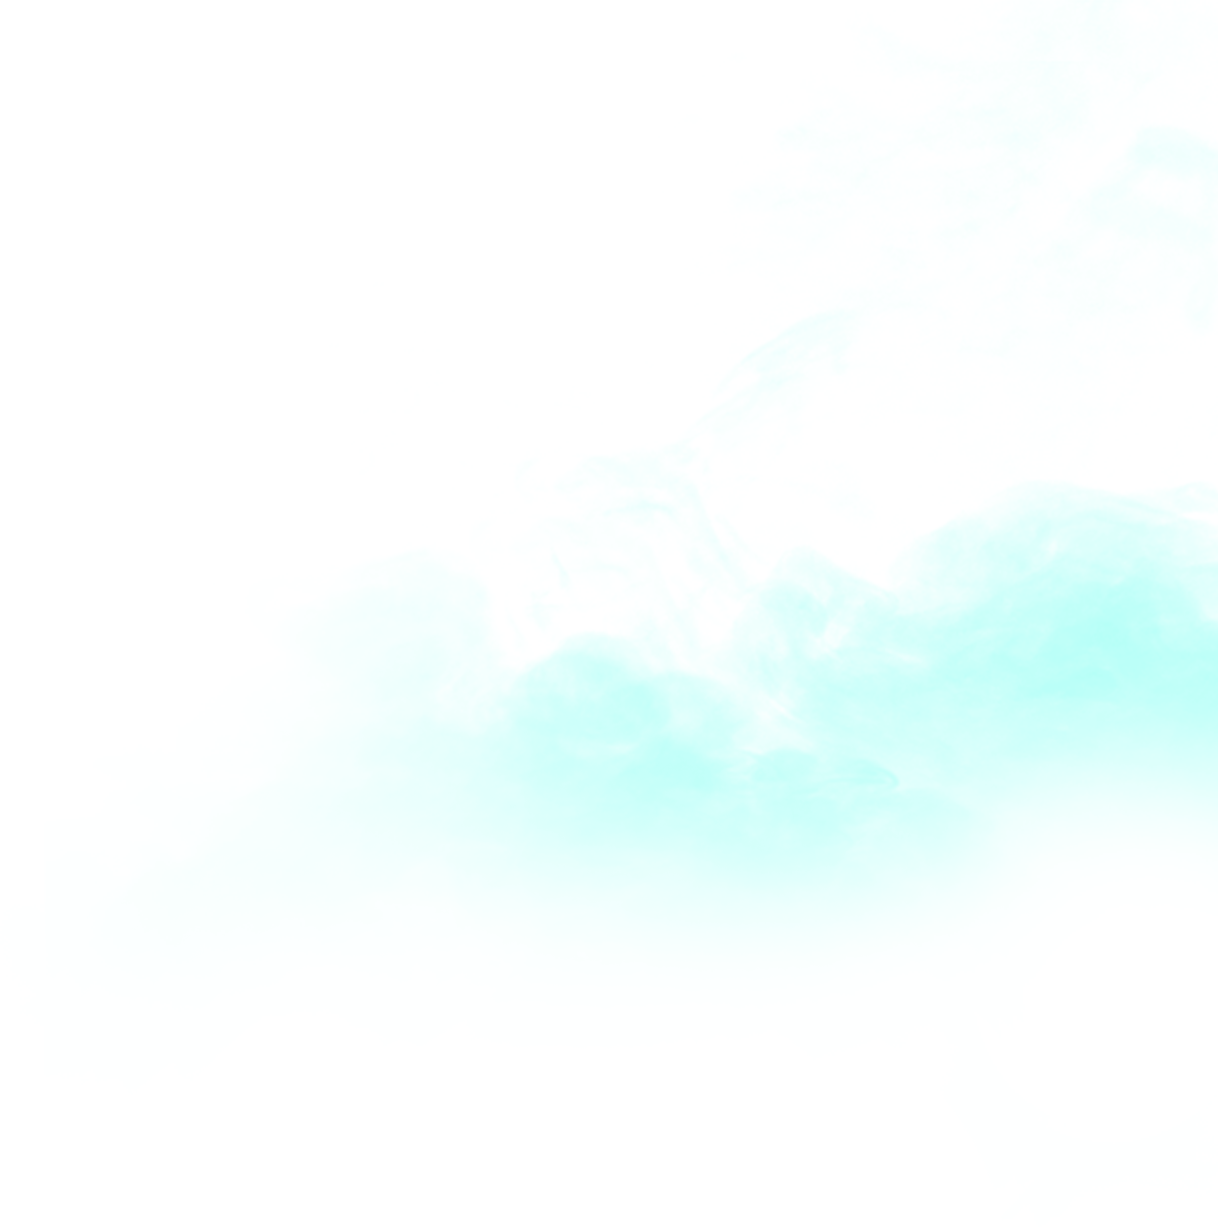
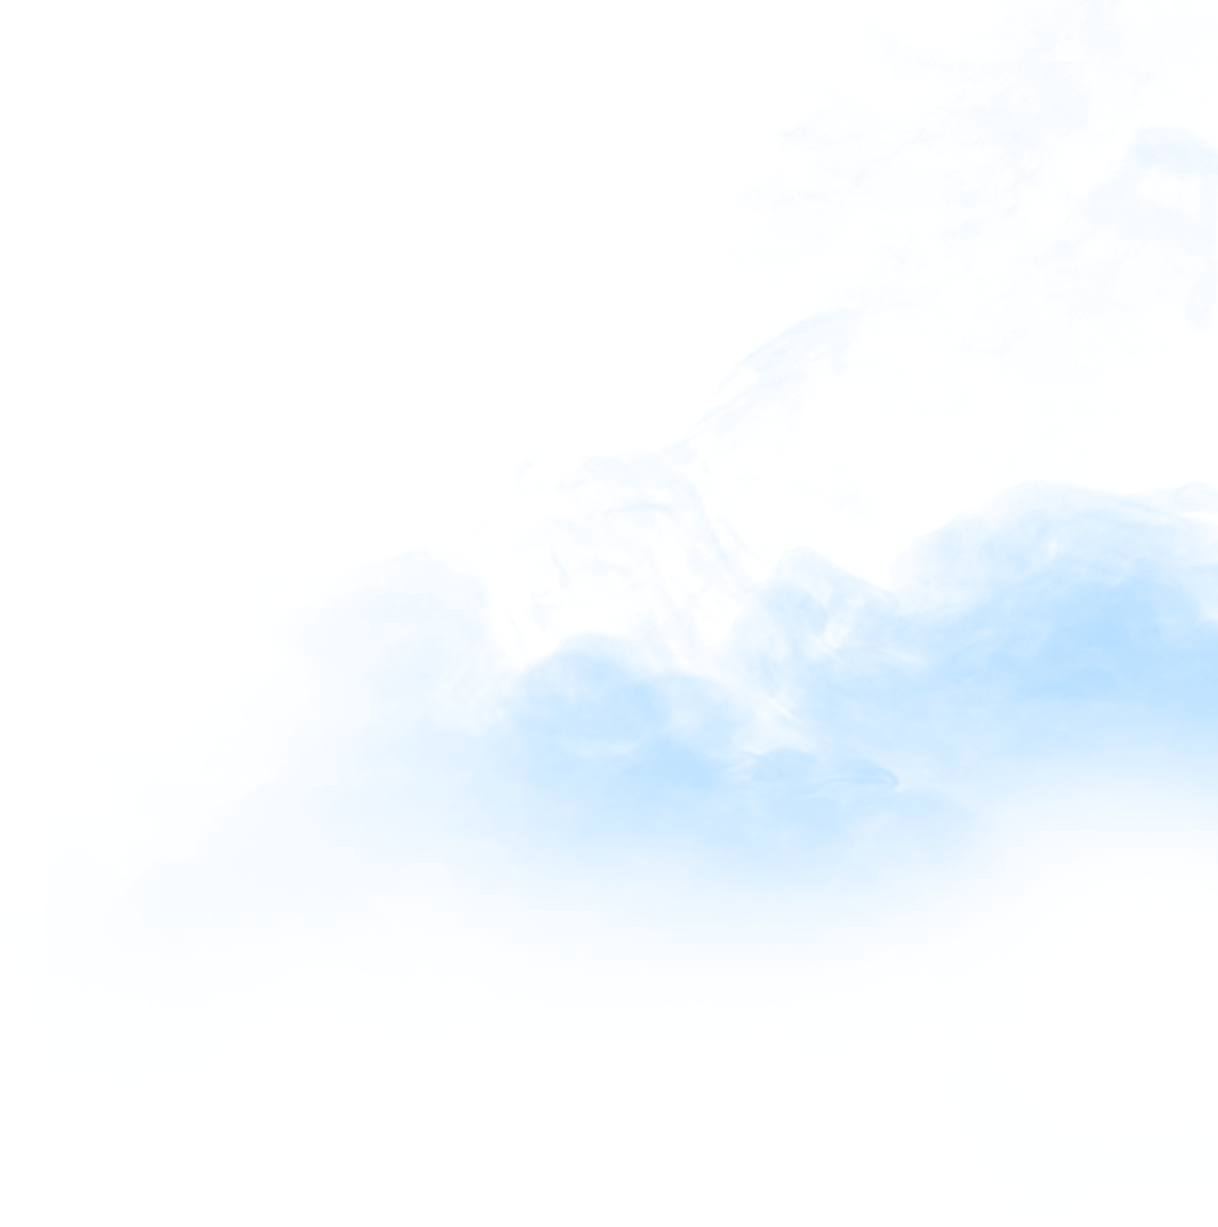
upd

Changed region(s): [[0.7488, 0.4645, 1.0, 0.5884], [0.4992, 0.5575, 0.5928, 0.6504], [0.6864, 0.6194, 0.7176, 0.6504]]

diff --git a/src/components/layout/Logo.tsx b/src/components/layout/Logo.tsx
@@ -1,0 +1,149 @@
+import React, { FC } from "react";
+
+interface ILogo {
+  carColor: string;
+  textColor: string;
+}
+
+const Logo: FC<ILogo> = ({ carColor, textColor }) => {
+  return (
+    <svg
+      xmlns="http://www.w3.org/2000/svg"
+      id="body_1"
+      width="180px"
+      height="50px"
+    >
+      <g transform="matrix(0.2395288 0 0 0.24056606 0 0)">
+        <g>
+          <path
+            d="M301.5 14.5C 311.833 14.5 322.167 14.5 332.5 14.5C 344.961 16.1471 357.628 16.8138 370.5 16.5C 371.833 16.5 373.167 16.5 374.5 16.5C 378.881 18.2105 383.547 18.8772 388.5 18.5C 389.167 18.5 389.833 18.5 390.5 18.5C 400.227 22.3482 410.227 25.6815 420.5 28.5C 439.697 36.6136 456.364 48.4469 470.5 64C 479.349 64.6963 488.182 64.5296 497 63.5C 499.3 63.4944 501.466 63.9944 503.5 65C 505.736 68.0353 507.402 71.3686 508.5 75C 507.529 76.4813 506.196 77.3146 504.5 77.5C 505.63 74.8633 505.63 72.1967 504.5 69.5C 501.833 69.5 499.167 69.5 496.5 69.5C 497.041 72.6516 496.041 75.1516 493.5 77C 477.17 77.4999 460.837 77.6666 444.5 77.5C 444.5 76.5 444.5 75.5 444.5 74.5C 455.881 74.8555 467.215 74.3555 478.5 73C 476.574 72.5776 475.574 71.4109 475.5 69.5C 472.167 69.5 468.833 69.5 465.5 69.5C 465.5 70.8333 465.5 72.1667 465.5 73.5C 449.109 73.9491 432.775 73.2824 416.5 71.5C 416.624 70.8933 416.957 70.56 417.5 70.5C 423.31 71.4896 429.31 71.8229 435.5 71.5C 445.008 72.8225 454.675 72.8225 464.5 71.5C 464.376 70.8933 464.043 70.56 463.5 70.5C 458.101 59.5993 450.101 51.0993 439.5 45C 423.461 36.4103 406.461 31.077 388.5 29C 387.299 29.9025 386.465 31.0692 386 32.5C 382.37 41.9045 378.87 51.2378 375.5 60.5C 375.925 55.3984 376.925 50.3984 378.5 45.5C 373.453 45.3375 368.453 45.6708 363.5 46.5C 366.081 38.8372 369.081 31.3372 372.5 24C 331.515 20.8429 290.515 20.6762 249.5 23.5C 245.486 23.3345 241.486 23.5012 237.5 24C 236.944 24.3826 236.611 24.8826 236.5 25.5C 235.833 25.5 235.167 25.5 234.5 25.5C 226.307 26.008 218.64 28.3413 211.5 32.5C 210.702 32.0431 210.369 31.3764 210.5 30.5C 216.215 26.4787 222.549 23.812 229.5 22.5C 242.739 21.2365 255.739 19.2365 268.5 16.5C 268.833 16.5 269.167 16.5 269.5 16.5C 280.376 16.7581 291.042 16.0915 301.5 14.5zM475.5 69.5C 480.985 68.3483 486.651 68.1816 492.5 69C 495.341 72.1588 494.674 74.4922 490.5 76C 489.207 76.49 487.873 76.6567 486.5 76.5C 485.833 75.1667 484.833 74.1667 483.5 73.5C 480.833 72.1667 478.167 70.8333 475.5 69.5z"
+            stroke="none"
+            fill={carColor}
+            fill-rule="nonzero"
+          />
+        </g>
+        <g>
+          <path
+            d="M234.5 25.5C 218.89 29.9716 204.557 37.1383 191.5 47C 181.804 54.1758 172.137 61.3425 162.5 68.5C 161.711 68.7828 161.044 69.2828 160.5 70C 163.146 70.4974 165.813 70.6641 168.5 70.5C 157.109 71.5383 145.442 72.5383 133.5 73.5C 140.736 72.0551 148.069 70.5551 155.5 69C 172.492 54.1774 190.826 41.344 210.5 30.5C 210.369 31.3764 210.702 32.0431 211.5 32.5C 218.64 28.3413 226.307 26.008 234.5 25.5z"
+            stroke="none"
+            fill={carColor}
+            fill-rule="nonzero"
+          />
+        </g>
+        <g>
+          <path
+            d="M375.5 60.5C 374.833 63.8333 374.167 67.1667 373.5 70.5C 373.253 72.9752 372.587 72.9752 371.5 70.5C 343.767 68.8592 316.1 69.5259 288.5 72.5C 295.601 70.7453 302.934 69.5786 310.5 69C 323.345 68.0769 336.178 67.2436 349 66.5C 351.057 67.1397 353.223 66.9731 355.5 66C 358.845 59.8039 361.511 53.3039 363.5 46.5C 368.453 45.6708 373.453 45.3375 378.5 45.5C 376.925 50.3984 375.925 55.3984 375.5 60.5z"
+            stroke="none"
+            fill={carColor}
+            fill-rule="nonzero"
+          />
+        </g>
+        <g>
+          <path
+            d="M639.5 65.5C 649.839 65.3335 660.172 65.5002 670.5 66C 672.148 71.8128 671.315 77.3128 668 82.5C 665.293 84.9363 662.127 86.4363 658.5 87C 649.756 87.9095 641.089 87.5762 632.5 86C 629.497 77.5101 631.83 70.6768 639.5 65.5z"
+            stroke="none"
+            fill={textColor}
+            fill-rule="nonzero"
+            fill-opacity="0.92941177"
+          />
+        </g>
+        <g>
+          <path
+            d="M416.5 60.5C 417.777 61.6936 418.444 63.3603 418.5 65.5C 418.493 67.3693 418.16 69.036 417.5 70.5C 416.957 70.56 416.624 70.8933 416.5 71.5C 432.775 73.2824 449.109 73.9491 465.5 73.5C 465.5 72.1667 465.5 70.8333 465.5 69.5C 468.833 69.5 472.167 69.5 475.5 69.5C 475.574 71.4109 476.574 72.5776 478.5 73C 467.215 74.3555 455.881 74.8555 444.5 74.5C 444.5 75.5 444.5 76.5 444.5 77.5C 460.837 77.6666 477.17 77.4999 493.5 77C 496.041 75.1516 497.041 72.6516 496.5 69.5C 499.167 69.5 501.833 69.5 504.5 69.5C 505.63 72.1967 505.63 74.8633 504.5 77.5C 504.47 78.4972 504.97 79.1639 506 79.5C 509.471 80.3711 512.638 81.7045 515.5 83.5C 513.073 83.477 510.74 82.977 508.5 82C 448.501 81.5 388.501 81.3333 328.5 81.5C 333.25 79.9692 338.25 79.3025 343.5 79.5C 347.514 79.6655 351.514 79.4988 355.5 79C 354.833 78.6667 354.167 78.3333 353.5 78C 346.986 77.18 340.653 77.3467 334.5 78.5C 333.833 78.5 333.167 78.5 332.5 78.5C 326.129 78.4882 319.796 78.9882 313.5 80C 311.881 80.2355 310.881 81.0689 310.5 82.5C 299 83.8736 287.667 86.2069 276.5 89.5C 280.185 87.3804 284.185 85.5471 288.5 84C 274.833 83.3333 261.167 83.3333 247.5 84C 243.727 85.3536 240.06 86.8536 236.5 88.5C 234.899 87.9653 234.399 86.9653 235 85.5C 237.185 84.3305 239.351 83.1638 241.5 82C 196.167 81.3333 150.833 81.3333 105.5 82C 104.095 83.2692 102.429 83.7692 100.5 83.5C 100.5 83.1667 100.5 82.8333 100.5 82.5C 101.167 82.5 101.5 82.1667 101.5 81.5C 111.67 76.9574 122.337 74.2907 133.5 73.5C 145.442 72.5383 157.109 71.5383 168.5 70.5C 168.5 70.1667 168.5 69.8333 168.5 69.5C 204.711 65.3587 241.044 63.6921 277.5 64.5C 282.349 65.1665 287.349 65.8332 292.5 66.5C 285.904 68.3785 279.237 70.0452 272.5 71.5C 271.287 71.7472 270.62 72.4138 270.5 73.5C 266.232 75.0896 261.899 76.5896 257.5 78C 258.167 78.1667 258.833 78.3333 259.5 78.5C 269.021 75.7293 278.688 73.7293 288.5 72.5C 316.1 69.5259 343.767 68.8592 371.5 70.5C 372.587 72.9752 373.253 72.9752 373.5 70.5C 376.391 71.4025 379.391 71.7359 382.5 71.5C 382.401 68.7628 382.735 66.0961 383.5 63.5C 385.092 64.6016 385.925 63.935 386 61.5C 392.027 56.9198 398.86 55.4198 406.5 57C 409.758 58.4665 413.092 59.6332 416.5 60.5z"
+            stroke="none"
+            fill={carColor}
+            fill-rule="nonzero"
+          />
+        </g>
+        <g>
+          <path
+            d="M276.5 89.5C 265.933 94.3047 255.099 98.638 244 102.5C 237.336 101.279 230.836 99.4457 224.5 97C 222.167 96.8333 219.833 96.6667 217.5 96.5C 201.846 97.383 186.18 97.7163 170.5 97.5C 150.16 97.6884 129.827 98.1884 109.5 99C 129.842 99.6526 150.175 99.4859 170.5 98.5C 187.188 98.7903 203.855 98.457 220.5 97.5C 224.797 98.2655 228.797 99.5989 232.5 101.5C 182.506 100.768 132.506 100.435 82.5 100.5C 77.5 100.833 72.5 101.167 67.5 101.5C 66.0319 104.154 64.3652 106.487 62.5 108.5C 65.161 98.8396 70.8276 91.5063 79.5 86.5C 83.3746 86.1042 87.2079 85.4375 91 84.5C 91.5 84.8333 92 85.1667 92.5 85.5C 91.3523 87.1487 90.019 88.6487 88.5 90C 89.1079 90.8699 89.9412 91.3699 91 91.5C 93.3495 89.3178 95.5162 86.9845 97.5 84.5C 98.609 84.4431 99.609 84.1098 100.5 83.5C 102.429 83.7692 104.095 83.2692 105.5 82C 150.833 81.3333 196.167 81.3333 241.5 82C 239.351 83.1638 237.185 84.3305 235 85.5C 234.399 86.9653 234.899 87.9653 236.5 88.5C 240.06 86.8536 243.727 85.3536 247.5 84C 261.167 83.3333 274.833 83.3333 288.5 84C 284.185 85.5471 280.185 87.3804 276.5 89.5z"
+            stroke="none"
+            fill={carColor}
+            fill-rule="nonzero"
+          />
+        </g>
+        <g>
+          <path
+            d="M328.5 81.5C 388.501 81.3333 448.501 81.5 508.5 82C 510.74 82.977 513.073 83.477 515.5 83.5C 518.167 84.1667 519.833 85.8333 520.5 88.5C 458.833 89.1667 397.167 89.8333 335.5 90.5C 328.887 91.2804 325.053 94.947 324 101.5C 315.349 109.147 309.516 118.481 306.5 129.5C 306.398 124.908 307.398 120.575 309.5 116.5C 301.187 115.335 292.853 115.168 284.5 116C 284.026 117.729 283.026 118.895 281.5 119.5C 281.372 117.345 281.872 115.345 283 113.5C 294.488 97.4988 309.654 86.8322 328.5 81.5z"
+            stroke="none"
+            fill={carColor}
+            fill-rule="nonzero"
+          />
+        </g>
+        <g>
+          <path
+            d="M345.5 97.5C 371.835 97.3334 398.169 97.5 424.5 98C 426.187 99.913 426.687 102.08 426 104.5C 422.333 114.833 418.667 125.167 415 135.5C 412.889 139.944 409.389 142.444 404.5 143C 390.425 142.859 376.592 143.693 363 145.5C 359.963 153.737 356.796 161.904 353.5 170C 356.76 170.784 359.927 170.617 363 169.5C 365.275 162.674 367.942 156.007 371 149.5C 372.41 148.213 373.91 147.046 375.5 146C 385.833 145.333 396.167 145.333 406.5 146C 408.444 148.153 408.944 150.653 408 153.5C 405.197 161.578 402.197 169.578 399 177.5C 397.457 179.378 395.624 180.878 393.5 182C 367.167 182.667 340.833 182.667 314.5 182C 312.813 180.087 312.313 177.92 313 175.5C 317.606 161.68 322.606 148.013 328 134.5C 329.41 133.213 330.91 132.046 332.5 131C 347.511 130.833 362.511 130.333 377.5 129.5C 379.833 123.5 382.167 117.5 384.5 111.5C 381.572 110.516 378.572 110.183 375.5 110.5C 372.875 124.585 364.375 130.252 350 127.5C 345.083 127.577 340.25 127.077 335.5 126C 334.02 124.701 333.354 123.034 333.5 121C 334.75 114.08 337.084 107.58 340.5 101.5C 342.21 100.113 343.877 98.7794 345.5 97.5z"
+            stroke="none"
+            fill={textColor}
+            fill-rule="nonzero"
+            fill-opacity="0.9607843"
+          />
+        </g>
+        <g>
+          <path
+            fill={textColor}
+            d="M 439.5,97.5 C 465.835,97.3334 492.169,97.5 518.5,98C 519,98.5 519.5,99 520,99.5C 520.215,102.803 520.382,105.97 520.5,109C 519.667,109.833 518.833,110.667 518,111.5C 514.132,124.115 509.299,136.281 503.5,148C 501.192,149.867 498.525,150.867 495.5,151C 482.167,151.333 468.833,151.667 455.5,152C 453.073,157.777 450.74,163.61 448.5,169.5C 451.5,170.833 454.5,170.833 457.5,169.5C 458.719,162.879 462.052,157.712 467.5,154C 477.833,153.333 488.167,153.333 498.5,154C 499.358,155.57 500.025,157.237 500.5,159C 498.697,167.093 495.364,174.427 490.5,181C 476.757,182.15 462.924,182.65 449,182.5C 435.833,182.333 422.667,182.167 409.5,182C 407.522,179.503 407.022,176.669 408,173.5C 416.333,150.5 424.667,127.5 433,104.5C 434.694,101.642 436.861,99.309 439.5,97.5 Z M 470.5,110.5 C 473.518,110.335 476.518,110.502 479.5,111C 475.472,119.918 472.139,129.084 469.5,138.5C 466.5,138.5 463.5,138.5 460.5,138.5C 463.634,129.098 466.968,119.764 470.5,110.5 Z"
+          />
+        </g>
+
+        <g>
+          <path
+            d="M538.5 97.5C 560.836 97.3334 583.169 97.5 605.5 98C 611.242 102.238 612.742 107.738 610 114.5C 603.136 132.757 596.47 151.09 590 169.5C 588.733 173.869 586.567 177.703 583.5 181C 574.602 182.609 565.602 182.942 556.5 182C 552.624 179.612 550.624 176.112 550.5 171.5C 557.1 151.366 564.1 131.366 571.5 111.5C 570 111.167 568.5 110.833 567 110.5C 565.019 110.629 563.353 111.296 562 112.5C 555.109 133.178 547.443 153.511 539 173.5C 535.579 177.458 531.412 180.292 526.5 182C 518.5 182.667 510.5 182.667 502.5 182C 500.522 179.503 500.022 176.669 501 173.5C 508.803 151.756 516.803 130.09 525 108.5C 528.819 103.833 533.319 100.166 538.5 97.5z"
+            stroke="none"
+            fill={textColor}
+            fill-rule="nonzero"
+            fill-opacity="0.9647059"
+          />
+        </g>
+        <g>
+          <path
+            d="M627.5 97.5C 637.839 97.3335 648.172 97.5002 658.5 98C 659.718 99.4382 660.385 101.105 660.5 103C 651.748 127.796 642.581 152.962 633 178.5C 631.421 180.041 629.587 181.208 627.5 182C 617.5 182.667 607.5 182.667 597.5 182C 596.02 180.701 595.354 179.034 595.5 177C 603.563 152.702 612.063 128.536 621 104.5C 622.694 101.642 624.861 99.309 627.5 97.5z"
+            stroke="none"
+            fill={textColor}
+            fill-rule="nonzero"
+            fill-opacity="0.9647059"
+          />
+        </g>
+        <g>
+          <path
+            d="M672.5 97.5C 682.839 97.3335 693.172 97.5002 703.5 98C 705.444 100.153 705.944 102.653 705 105.5C 702.025 114.094 698.858 122.594 695.5 131C 698.76 131.784 701.927 131.617 705 130.5C 708.274 120.678 711.941 111.011 716 101.5C 717.41 100.213 718.91 99.0458 720.5 98C 730.833 97.3333 741.167 97.3333 751.5 98C 753.444 100.153 753.944 102.653 753 105.5C 749.667 114.833 746.333 124.167 743 133.5C 740.984 135.684 738.817 137.684 736.5 139.5C 738.395 141.867 738.895 144.534 738 147.5C 734.47 156.423 731.137 165.423 728 174.5C 727.117 177.102 725.617 179.269 723.5 181C 717.772 182.123 711.939 182.623 706 182.5C 700.833 182.333 695.667 182.167 690.5 182C 688.556 179.847 688.056 177.347 689 174.5C 691.975 165.906 695.142 157.406 698.5 149C 695.24 148.216 692.073 148.383 689 149.5C 685.726 159.322 682.059 168.989 678 178.5C 676.59 179.787 675.09 180.954 673.5 182C 663.167 182.667 652.833 182.667 642.5 182C 640.522 179.503 640.022 176.669 641 173.5C 644.295 162.773 648.462 152.44 653.5 142.5C 655.028 141.139 656.695 139.972 658.5 139C 656.496 136.159 655.996 132.993 657 129.5C 660 121.167 663 112.833 666 104.5C 667.694 101.642 669.861 99.309 672.5 97.5z"
+            stroke="none"
+            fill={textColor}
+            fill-rule="nonzero"
+            fill-opacity="0.9647059"
+          />
+        </g>
+        <g>
+          <path
+            d="M232.5 101.5C 232.833 101.5 233.167 101.5 233.5 101.5C 234.246 103.343 235.579 104.676 237.5 105.5C 236.224 108.303 236.224 110.97 237.5 113.5C 238.2 116.971 240.2 118.971 243.5 119.5C 254.172 119.314 264.839 118.981 275.5 118.5C 275.508 121.545 275.841 124.545 276.5 127.5C 276.5 128.167 276.5 128.833 276.5 129.5C 275.532 131.607 275.198 133.941 275.5 136.5C 274.566 135.432 274.232 134.099 274.5 132.5C 256.488 132.167 238.488 132.5 220.5 133.5C 219.561 137.765 219.228 142.098 219.5 146.5C 219.167 146.5 218.833 146.5 218.5 146.5C 218.788 140.771 218.454 135.104 217.5 129.5C 218.025 128.808 218.692 128.308 219.5 128C 222.482 127.502 225.482 127.335 228.5 127.5C 235.494 126.704 242.494 125.871 249.5 125C 241.295 124.415 233.295 124.915 225.5 126.5C 222.428 126.817 219.428 126.484 216.5 125.5C 213.466 118.595 209.8 112.095 205.5 106C 166.152 105.6 126.818 106.267 87.5 108C 79.8333 114.333 72.8333 121.333 66.5 129C 63.854 129.497 61.1873 129.664 58.5 129.5C 55.9272 128.445 53.2605 128.278 50.5 129C 53.2066 129.395 55.8733 129.895 58.5 130.5C 61.3965 130.125 64.0632 130.625 66.5 132C 65.5442 135.394 65.2108 138.894 65.5 142.5C 64.7561 139.64 64.0894 136.64 63.5 133.5C 54.1904 132.502 44.8571 132.168 35.5 132.5C 35.5 129.5 35.5 126.5 35.5 123.5C 35.5 122.833 35.5 122.167 35.5 121.5C 36.8195 120.058 38.4862 119.392 40.5 119.5C 45.246 119.888 49.9127 119.888 54.5 119.5C 58.0658 116.3 60.7325 112.634 62.5 108.5C 64.3652 106.487 66.0319 104.154 67.5 101.5C 72.5 101.167 77.5 100.833 82.5 100.5C 132.506 100.435 182.506 100.768 232.5 101.5z"
+            stroke="none"
+            fill={carColor}
+            fill-rule="nonzero"
+            fill-opacity="0.99607843"
+          />
+        </g>
+        <g>
+          <path
+            d="M306.5 129.5C 306.435 132.428 305.768 135.095 304.5 137.5C 303.699 135.958 303.366 134.292 303.5 132.5C 295.804 132.169 288.138 132.503 280.5 133.5C 279.942 136.127 278.942 138.46 277.5 140.5C 278.3 133.365 279.633 126.365 281.5 119.5C 283.026 118.895 284.026 117.729 284.5 116C 292.853 115.168 301.187 115.335 309.5 116.5C 307.398 120.575 306.398 124.908 306.5 129.5z"
+            stroke="none"
+            fill={carColor}
+            fill-rule="nonzero"
+            fill-opacity="0.99607843"
+          />
+        </g>
+        <g>
+          <path
+            d="M35.5 132.5C 44.8571 132.168 54.1904 132.502 63.5 133.5C 64.0894 136.64 64.7561 139.64 65.5 142.5C 66.3108 153.811 66.9775 165.144 67.5 176.5C 117.997 177.499 168.664 177.832 219.5 177.5C 219.5 167.167 219.5 156.833 219.5 146.5C 219.228 142.098 219.561 137.765 220.5 133.5C 238.488 132.5 256.488 132.167 274.5 132.5C 274.232 134.099 274.566 135.432 275.5 136.5C 275.334 141.179 275.501 145.845 276 150.5C 277.079 147.937 277.579 145.271 277.5 142.5C 277.5 141.833 277.5 141.167 277.5 140.5C 278.942 138.46 279.942 136.127 280.5 133.5C 288.138 132.503 295.804 132.169 303.5 132.5C 303.366 134.292 303.699 135.958 304.5 137.5C 302.458 151.985 301.124 166.485 300.5 181C 212.501 181.5 124.501 181.667 36.5 181.5C 35.5 181.5 34.5 181.5 33.5 181.5C 31.8967 181.688 30.5634 181.188 29.5 180C 30.0279 176.951 31.0279 174.118 32.5 171.5C 33.1499 171.196 33.8165 170.863 34.5 170.5C 35.4991 157.851 35.8324 145.184 35.5 132.5z"
+            stroke="none"
+            fill={carColor}
+            fill-rule="nonzero"
+            fill-opacity="0.99607843"
+          />
+        </g>
+      </g>
+    </svg>
+  );
+};
+
+export default Logo;

diff --git a/src/components/UI/animation/FogBackground/FogBackground.tsx b/src/components/UI/animation/FogBackground/FogBackground.tsx
@@ -11,42 +11,72 @@ import smoke1Brown from "./brown/smoke-brown-1.png";
 import smoke2Brown from "./brown/smoke-brown-2.png";
 import smoke3Brown from "./brown/smoke-brown-3.png";
 import smoke1Gray from "./gray/smoke-gray-1.png";
-import smoke2Gray from "./gray/smoke-gray-1.png";
-import smoke3Gray from "./gray/smoke-gray-1.png";
+import smoke2Gray from "./gray/smoke-gray-2.png";
+import smoke3Gray from "./gray/smoke-gray-3.png";
 
 interface FogBackground {
-  color: string;
+  color: "red" | "blue" | "brown" | "gray";
 }
+
+interface ISmokeImages {
+  red1: string;
+  red2: string;
+  red3: string;
+  blue1: string;
+  blue2: string;
+  blue3: string;
+  brown1: string;
+  brown2: string;
+  brown3: string;
+  gray1: string;
+  gray2: string;
+  gray3: string;
+}
+
+const images: ISmokeImages = {
+  red1: smoke1Red,
+  red2: smoke2Red,
+  red3: smoke3Red,
+  blue1: smoke1Blue,
+  blue2: smoke2Blue,
+  blue3: smoke3Blue,
+  brown1: smoke1Brown,
+  brown2: smoke2Brown,
+  brown3: smoke3Brown,
+  gray1: smoke1Gray,
+  gray2: smoke2Gray,
+  gray3: smoke3Gray,
+};
 
 const FogBackground: FC<FogBackground> = ({ color }) => {
   return (
     <section className={style.agSmokeBlock}>
       <div className={style.agSmoke1}>
-        <img src={smoke1Gray} />
+        <img src={images[(color + 1) as keyof ISmokeImages]} />
       </div>
       <div className={`${style.agSmoke1} ${style.agSmoke__delay1}`}>
-        <img src={`../${color}/smoke-${color}-1.png`} />
+        <img src={images[(color + 1) as keyof ISmokeImages]} />
       </div>
       <div className={`${style.agSmoke1} ${style.agSmoke__delay2}`}>
-        <img src={"smoke1" + color} />
+        <img src={images[(color + 1) as keyof ISmokeImages]} />
       </div>
       <div className={style.agSmoke2}>
-        <img src={"smoke2" + color} />
+        <img src={images[(color + 2) as keyof ISmokeImages]} />
       </div>
       <div className={`${style.agSmoke2} ${style.agSmoke__delay1}`}>
-        <img src={"smoke2" + color} />
+        <img src={images[(color + 2) as keyof ISmokeImages]} />
       </div>
       <div className={`${style.agSmoke2} ${style.agSmoke__delay2}`}>
-        <img src={"smoke2" + color} />
+        <img src={images[(color + 2) as keyof ISmokeImages]} />
       </div>
       <div className={style.agSmoke3}>
-        <img src={"smoke3" + color} />
+        <img src={images[(color + 3) as keyof ISmokeImages]} />
       </div>
       <div className={`${style.agSmoke3} ${style.agSmoke__delay1}`}>
-        <img src={"smoke3" + color} />
+        <img src={images[(color + 3) as keyof ISmokeImages]} />
       </div>
       <div className={`${style.agSmoke3} ${style.agSmoke__delay2}`}>
-        <img src={"smoke3" + color} />
+        <img src={images[(color + 3) as keyof ISmokeImages]} />
       </div>
       <div className={style.agSmoke4}>
         <img src={smokeGray} />

diff --git a/src/components/layout/header/Header.tsx b/src/components/layout/header/Header.tsx
@@ -10,7 +10,8 @@ import Container from "@mui/material/Container";
 import Button from "@mui/material/Button";
 import MenuItem from "@mui/material/MenuItem";
 import SearchIcon from "@mui/icons-material/Search";
-import logo from "../logo.webp";
+import logo from "../Logo";
+import Logo from "../Logo";
 
 function Header() {
   const [anchorElNav, setAnchorElNav] = React.useState<null | HTMLElement>(
@@ -38,11 +39,7 @@ function Header() {
           <Box
             sx={{ display: { xs: "none", md: "flex" }, marginRight: "250px" }}
           >
-            <img
-              src={logo}
-              style={{ width: "180px", height: "55px" }}
-              alt="logo"
-            />
+            <Logo carColor={"#313896"} textColor={"#6f7387"} />
           </Box>
           <Box sx={{ flexGrow: 1, display: { xs: "flex", md: "none" } }}>
             <IconButton
@@ -79,11 +76,7 @@ function Header() {
             </Menu>
           </Box>
           <Box sx={{ display: { xs: "flex", md: "none" } }}>
-            <img
-              src={logo}
-              style={{ width: "180px", height: "55px" }}
-              alt="logo"
-            />
+            <Logo carColor={"#313896"} textColor={"#6f7387"} />
           </Box>
           <Box
             sx={{

diff --git a/src/screens/Home.tsx b/src/screens/Home.tsx
@@ -6,11 +6,11 @@ import Showcase from "../components/Car/Showcase/Showcase";
 const Home: FC = () => {
   return (
     <Box style={{ width: "100%" }}>
-      <FogBackground color={"red"} />
+      <FogBackground color={"blue"} />
       <Showcase
-        brand={"audi"}
-        model={"r8"}
-        color={"red "}
+        brand={"volkswagen"}
+        model={"transporter"}
+        color={"blue"}
         info={
           "Many cars claim racing heritage, but the Audi R8 Coupe is a true thoroughbred. Sharing 50 percent of its parts with the R8 GT3 LMS race car, it was born on the track and built for the road."
         }

diff --git a/src/components/layout/footer/Footer.tsx b/src/components/layout/footer/Footer.tsx
@@ -4,6 +4,7 @@ import FacebookIcon from "@mui/icons-material/Facebook";
 import TelegramIcon from "@mui/icons-material/Telegram";
 import LinkedInIcon from "@mui/icons-material/LinkedIn";
 import logo from "../logo.webp";
+import Logo from "../Logo";
 
 const Footer: FC = () => {
   return (
@@ -15,7 +16,7 @@ const Footer: FC = () => {
         paddingBottom: "50px",
       }}
     >
-      <img style={{ width: "180px", height: "55px" }} src={logo} />
+      <Logo carColor={"#313896"} textColor={"#6f7387"} />
       <Box
         sx={{
           display: "flex",

diff --git a/src/components/Car/Showcase/Showcase.tsx b/src/components/Car/Showcase/Showcase.tsx
@@ -65,7 +65,7 @@ const Showcase: FC<IShowcase> = ({ brand, model, color, info }) => {
             width: "800px",
             height: "500px",
           }}
-          src={`https://cdn.imagin.studio/getImage?&make=audi&modelFamily=r8&customer=img&paintDescription=${color}&angle=23&zoomType=fullscreen`}
+          src={`https://cdn.imagin.studio/getImage?&make=${brand}&modelFamily=${model}&customer=img&paintDescription=${color}&angle=23&zoomType=fullscreen`}
           alt="audi"
         />
       </Box>

diff --git a/src/declaration.d.ts b/src/declaration.d.ts
@@ -1,4 +1,5 @@
 declare module "*.jpg";
 declare module "*.png";
+declare module "*.svg";
 declare module "*.webp";
 declare module "*.module.css";
